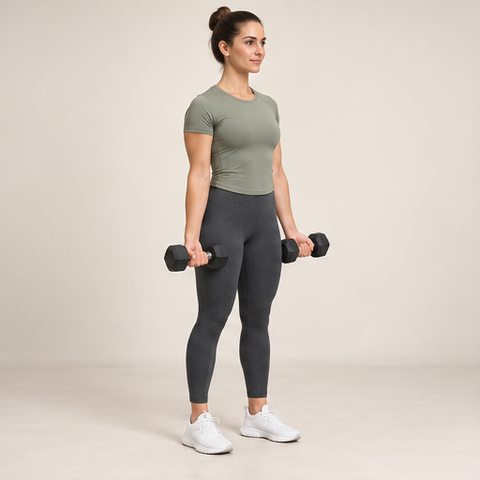
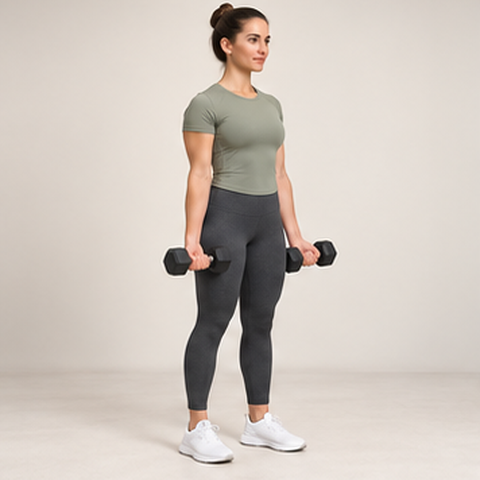
Update workouts, coaching link and exercise media

diff --git a/app.js b/app.js
@@ -1,12 +1,12 @@
 const exercises=[
 ['walk','Разминка','Ходьба или велотренажёр','5–7 минут','Спокойный темп','Начни с комфортного темпа для общего разогрева. На иллюстрации показана ходьба на дорожке.',1],
 ['hyper','Подготовка','Гиперэкстензия под 45°','10–12','60–90 сек','Без веса. Движение в тазобедренных суставах; поднимайся до прямой линии корпуса и ног. Не переразгибай поясницу и не доводи до утомления.',1],
-['legpress','Ноги','Жим ногами','10–15','1,5–2 мин','Таз и спина прижаты к спинке. Опускай платформу до глубины, где таз ещё не начинает подкручиваться. Не бери большой вес только потому, что есть опора.',2],
+['legpress','Ноги','Жим ногами','10–15','1,5–2 мин','Таз и спина прижаты к спинке. Упор в пятки: дави через пятки и середину стопы, сохраняя всю стопу на платформе. Не отрывай носки. Опускай платформу до глубины, где таз ещё не начинает подкручиваться. Не бери большой вес только потому, что есть опора.',2],
 ['bridge','Ягодицы','Ягодичный мост с весом на полу','12–15','60–90 сек','На иллюстрации — штанга с мягкой накладкой на тазу. Освой движение без веса, затем добавь небольшое отягощение. Придерживай гриф руками; поднимай таз за счёт ягодиц, без переразгибания поясницы.',2],
-['curlleg','Задняя поверхность бедра','Сгибание ног сидя','10–15','60–90 сек','Настрой тренажёр под свой рост. Сгибай и разгибай ноги плавно, без рывков, сохраняя таз на сиденье.',2],
-['row','Спина','Горизонтальная тяга с упором грудью','10–15','1,5–2 мин','Грудь остаётся на опоре. Тяни рукояти к корпусу, не поднимай плечи к ушам и не раскачивайся.',2],
-['press','Грудь · трицепс','Жим от груди сидя','10–15','1,5–2 мин','Спина на опоре. Рукояти примерно на уровне середины груди. Жми в комфортной амплитуде без рывков.',2],
-['lateral','Плечи','Подъём гантелей в стороны сидя','12–15','60–90 сек','Лёгкий вес. Поднимай руки в стороны примерно до уровня плеч, без махов и пожимания плечами.',2],
+['split','Ноги · ягодицы','Сплит-приседания с гантелями','8–12 на каждую ногу','60–90 сек','Гантели вдоль корпуса. Одна стопа впереди, другая сзади на носке; обе остаются на полу. Опускайся вертикально, переднее колено направляй по линии стопы. Начни с лёгких гантелей, без потери равновесия. Один подход — обе ноги.',2],
+['row','Спина','Горизонтальная тяга нижнего блока','10–15','1,5–2 мин','Сидя без упора грудью, стопы на платформе, колени слегка согнуты. Держи спину нейтрально и корпус устойчиво. Тяни рукоять к животу, не поднимай плечи и не раскачивайся. Начни с лёгкого веса.',2],
+['pecdeck','Грудь','Бабочка в тренажёре','10–15','60–90 сек','Спина на опоре, плечи опущены. Настрой сиденье: рукояти на уровне груди. Плавно своди руки перед собой; возвращай в комфортную амплитуду, не уводя локти далеко за корпус.',2],
+['lateral','Плечи','Подъём гантелей в стороны сидя','12–15','60–90 сек','Лёгкий вес. Веди движение локтями: они немного выше кистей. Не выворачивай плечи внутрь и не опускай большие пальцы вниз. Поднимай руки примерно до уровня плеч, без махов и пожимания плечами.',2],
 ['biceps','Бицепс','Сгибание рук с гантелями стоя','10–15','60–90 сек','Ладони вперёд, локти около корпуса. Поднимай и опускай гантели плавно, без раскачивания и прогиба в пояснице.',2],
 ['pushdown','Трицепс','Разгибание рук с канатом','10–15','60–90 сек','Верхний блок. Держи локти около корпуса и плечи неподвижными. Разгибай руки вниз, контролируй возвращение.',2],
 ['knees','Пресс','Подъём согнутых коленей в упоре','8–12','60–90 сек','Упор на предплечьях, тренажёр со спинкой. Не проваливайся в плечах. Поднимай колени, слегка подкручивая таз к рёбрам; опускай медленно. Без раскачивания.',2]
@@ -14,7 +14,7 @@ const exercises=[
 let state={day:1,beginner:false,done:{}};try{Object.assign(state,JSON.parse(localStorage.getItem('forma-v1')||'{}'))}catch{}
 let paused=matchMedia('(prefers-reduced-motion: reduce)').matches;
 const $=s=>document.querySelector(s);function save(){try{localStorage.setItem('forma-v1',JSON.stringify(state))}catch{}}
-function items(){return exercises.map(e=>e[0]==='row'&&state.day===2?['pulldown','Спина','Тяга верхнего блока к груди','10–15','1,5–2 мин','Тяни перед собой, не за голову. Не раскачивай корпус и не поднимай плечи к ушам.',2]:e)}
+function items(){return exercises.map(e=>e[0]==='row'&&state.day===2?['pulldown','Спина','Тяга верхнего блока к груди','10–15','1,5–2 мин','Тяни перед собой, не за голову. Не раскачивай корпус и не поднимай плечи к ушам.',2]:e[0]==='pecdeck'&&state.day===2?['dumbbellfly','Грудь','Разведение гантелей лёжа','10–15','60–90 сек','Лёжа на горизонтальной скамье, стопы на полу. Локти слегка согнуты, угол сохраняется. Разводи руки до комфортного растяжения, не опуская локти ниже корпуса; своди гантели над грудью. Начни с очень лёгкого веса.',2]:e[0]==='split'&&state.day===2?['extension','Передняя поверхность бедра','Разгибание ног сидя','10–15','60–90 сек','Спина и таз на опоре. Ось тренажёра на уровне коленей, валик спереди нижней части голеней, выше голеностопа. Плавно выпрямляй ноги без резкого запирания коленей; контролируй опускание.',2]:e)}
 function key(id,i){return `${state.day}-${state.beginner}-${id}-${i}`}
-function render(){let total=0,done=0;$('#cards').innerHTML=items().map((e,i)=>{const[id,tag,title,reps,rest,tip,max]=e;const n=state.beginner?1:max;total+=n;let checks=Array.from({length:n},(_,j)=>{let yes=!!state.done[key(id,j)];done+=yes?1:0;return `<button class="check ${yes?'done':''}" data-id="${id}" data-set="${j}" aria-label="${title}: ${id==='walk'?'разминка':'подход '+(j+1)}" aria-pressed="${yes}">${yes?'✓':j+1}</button>`}).join('');return `<article class="card"><div class="visual"><img src="${id}.${paused?'png':'gif'}?v=ai2" alt="AI-иллюстрация: ${title}" loading="lazy"><span class="ai-label">AI · GIF</span><span class="number">${String(i+1).padStart(2,'0')}</span></div><div class="content"><span class="tag">${tag}</span><h3>${title}</h3><div class="dose">${id==='walk'?reps:n+' × '+reps}</div><div class="rest">${id==='walk'?rest:'Отдых: '+rest}</div><p class="tip">${tip}</p><div class="checks"><span>${id==='walk'?'Разминка':'Подходы'}</span>${checks}</div></div></article>`}).join('');$('#progress').textContent=`Выполнено ${done} из ${total} · ${done===total?'Отличная работа!':'В твоём темпе'}`;$('#bar').style.width=100*done/total+'%';$('#beginner').checked=state.beginner;document.querySelectorAll('[data-day]').forEach(b=>{let on=+b.dataset.day===state.day;b.classList.toggle('active',on);b.setAttribute('aria-pressed',on)});$('#motion').textContent=paused?'Включить GIF':'Приостановить GIF'}
+function render(){let total=0,done=0;$('#cards').innerHTML=items().map((e,i)=>{const[id,tag,title,reps,rest,tip,max]=e;const n=state.beginner?1:max;total+=n;let checks=Array.from({length:n},(_,j)=>{let yes=!!state.done[key(id,j)];done+=yes?1:0;return `<button class="check ${yes?'done':''}" data-id="${id}" data-set="${j}" aria-label="${title}: ${id==='walk'?'разминка':'подход '+(j+1)}" aria-pressed="${yes}">${yes?'✓':j+1}</button>`}).join('');return `<article class="card"><div class="visual"><img src="${id}.${paused?'png':'gif'}?v=ai4" alt="AI-иллюстрация: ${title}" loading="lazy"><span class="ai-label">AI · GIF</span><span class="number">${String(i+1).padStart(2,'0')}</span></div><div class="content"><span class="tag">${tag}</span><h3>${title}</h3><div class="dose">${id==='walk'?reps:n+' × '+reps}</div><div class="rest">${id==='walk'?rest:'Отдых: '+rest}</div><p class="tip">${tip}</p><div class="checks"><span>${id==='walk'?'Разминка':'Подходы'}</span>${checks}</div></div></article>`}).join('');$('#progress').textContent=`Выполнено ${done} из ${total} · ${done===total?'Отличная работа!':'В твоём темпе'}`;$('#bar').style.width=100*done/total+'%';$('#beginner').checked=state.beginner;document.querySelectorAll('[data-day]').forEach(b=>{let on=+b.dataset.day===state.day;b.classList.toggle('active',on);b.setAttribute('aria-pressed',on)});$('#motion').textContent=paused?'Включить GIF':'Приостановить GIF'}
 $('#cards').onclick=e=>{const b=e.target.closest('[data-set]');if(!b)return;const k=key(b.dataset.id,b.dataset.set);state.done[k]=!state.done[k];save();const id=b.dataset.id,j=b.dataset.set;render();document.querySelector(`[data-id="${id}"][data-set="${j}"]`).focus({preventScroll:true})};document.querySelectorAll('[data-day]').forEach(b=>b.onclick=()=>{state.day=+b.dataset.day;save();render()});$('#beginner').onchange=e=>{state.beginner=e.target.checked;save();render()};$('#motion').onclick=()=>{paused=!paused;render()};$('#reset').onclick=()=>{for(const k of Object.keys(state.done))if(k.startsWith(`${state.day}-${state.beginner}-`))delete state.done[k];save();render()};render();

diff --git a/index.html b/index.html
@@ -1,9 +1,10 @@
-<!doctype html><html lang="ru"><head><meta charset="utf-8"><meta name="viewport" content="width=device-width,initial-scale=1"><meta name="description" content="Твоя программа full body: два занятия в неделю, понятная техника и реалистичные AI-иллюстрации упражнений."><title>Твой старт — Full body</title><link rel="stylesheet" href="style.css?v=ai2"></head><body>
-<header><a class="brand" href="#">форма<span> / твой старт</span></a><a href="#program">К программе ↗</a></header>
+<!doctype html><html lang="ru"><head><meta charset="utf-8"><meta name="viewport" content="width=device-width,initial-scale=1"><meta name="description" content="Твоя программа full body: два занятия в неделю, понятная техника и реалистичные AI-иллюстрации упражнений."><title>Твой старт — Full body</title><link rel="stylesheet" href="style.css?v=ai4"></head><body>
+<header><a class="brand" href="#">форма<span> / твой старт</span></a><nav class="header-links"><a href="#program">К программе ↗</a><a class="trainer-link" href="https://t.me/liveisgood8" target="_blank" rel="noopener noreferrer">Связаться с тренером ↗</a></nav></header>
 <main><section class="hero"><div><div class="eyebrow">СИЛЬНЕЕ. СПОКОЙНО. ПОСТЕПЕННО.</div><h1>Твой первый<br>шаг к <em>силе.</em></h1><p class="intro">Понятная программа на всё тело.<br>Осваивай движения, замечай прогресс<br>и тренируйся в своём темпе.</p><a class="primary" href="#program">Начать тренировку <span>↗</span></a></div><div class="hero-art"><div class="orbit"></div><div class="hero-label">FULL<br>BODY<span>01 / ОСНОВА</span></div><div class="hero-note">Меньше спешки.<br>Больше контроля.</div><span class="star">✳</span></div></section>
 <div class="metrics"><div><b>02</b><span>тренировки в неделю</span></div><div><b>60–70</b><span>минут на занятие</span></div><div><b>6–8</b><span>недель для старта</span></div><div><b>3–4</b><span>повторения в запасе</span></div></div>
-<section class="schedule"><div class="eyebrow">ТВОЙ РИТМ</div><p><strong>Пн — зал</strong><span>→</span><strong>Чт — зал</strong><span>→</span><strong>Сб — теннис / баскетбол</strong></p><small>Пример расписания. Между силовыми — хотя бы один полный день отдыха.</small></section>
+<section class="schedule"><div class="eyebrow">ТВОЙ РИТМ</div><p><strong>Пн — зал</strong><span>→</span><strong>Чт — зал</strong></p><small>Пример расписания. Между силовыми — хотя бы один полный день отдыха.</small></section>
+<section class="rules"><div><div class="eyebrow">ПРОГРЕСС БЕЗ СПЕШКИ</div><h2>Сначала техника.<br>Потом вес.</h2></div><div><article><b>01 / Начни легко</b><p>Первую неделю — один рабочий подход. Со второй переходи к двум, если нормально восстанавливаешься. Гиперэкстензия всегда остаётся одним лёгким подходом.</p></article><article><b>02 / Оставляй запас</b><p>Выбирай вес, с которым могла бы сделать ещё 3–4 чистых повторения. Перед первым упражнением на каждую группу мышц сделай 1–2 лёгких разминочных подхода, постепенно повышая вес и не доводя мышцы до утомления. Они не входят в рабочие подходы программы.</p></article><article><b>03 / Добавляй постепенно</b><p>Достигла верхней границы повторений в обоих подходах с запасом на двух занятиях с этим упражнением подряд? Увеличь вес на минимальный шаг и вернись к нижней границе диапазона.</p></article></div></section>
 <section id="program"><div class="section-head"><div><div class="eyebrow">ДВИЖЕНИЕ ЗА ДВИЖЕНИЕМ</div><h2>Твоя программа</h2></div><button id="motion" class="quiet">Приостановить GIF</button></div><div class="toolbar"><div class="tabs" role="group" aria-label="День тренировки"><button class="active" data-day="1" aria-pressed="true">Тренировка 01</button><button data-day="2" aria-pressed="false">Тренировка 02</button></div><label class="switch"><input id="beginner" type="checkbox"> Первая неделя · 1 подход</label></div><div class="session"><span id="progress" aria-live="polite"></span><button id="reset" class="quiet">Сбросить отметки</button></div><div class="progress-track"><div id="bar"></div></div><p class="legend">Нажимай на кружки после выполненных подходов. Отметки сохраняются в этом браузере.</p><div id="cards" class="cards"></div></section>
-<section class="rules"><div><div class="eyebrow">ПРОГРЕСС БЕЗ СПЕШКИ</div><h2>Сначала техника.<br>Потом вес.</h2></div><div><article><b>01 / Начни легко</b><p>Первую неделю — один рабочий подход. Со второй переходи к двум, если нормально восстанавливаешься. Гиперэкстензия всегда остаётся одним лёгким подходом.</p></article><article><b>02 / Оставляй запас</b><p>Выбирай вес, с которым могла бы сделать ещё 3–4 чистых повторения. Перед жимом ногами, тягой и жимом от груди — по одному лёгкому разминочному подходу сверх программы.</p></article><article><b>03 / Добавляй постепенно</b><p>Достигла верхней границы повторений в обоих подходах с запасом на двух занятиях с этим упражнением подряд? Увеличь вес на минимальный шаг и вернись к нижней границе диапазона.</p></article></div></section>
-<aside class="notice"><strong>О движениях и иллюстрациях</strong><p>Все GIF созданы с помощью AI в едином стиле. Это иллюстрации движения, а не видеосъёмка: детали анатомии и тренажёров могут отличаться от реальных. На первых занятиях попроси тренера проверить настройки и выполнение. Программа снижает потребность в тяжёлой осевой нагрузке, но не исключает нагрузку на позвоночник. При боли в спине или суставах прекращай вызывающее её упражнение.</p></aside>
-<footer><span class="brand">форма / твой старт</span><span>Сила начинается с привычки.</span><a href="https://acsm.org/resistance-training-guidelines-update-2026/" target="_blank" rel="noopener">Рекомендации ACSM ↗</a></footer></main><script src="app.js?v=ai2"></script></body></html>
+
+
+<footer><span class="brand">форма / твой старт</span><span>Сила начинается с привычки.</span><a href="https://acsm.org/resistance-training-guidelines-update-2026/" target="_blank" rel="noopener">Рекомендации ACSM ↗</a></footer></main><script src="app.js?v=ai4"></script></body></html>

diff --git a/style.css b/style.css
@@ -1,3 +1,5 @@
 :root{--bg:#f7f6f0;--ink:#283d32;--muted:#70796d;--accent:#d5e878;--line:#dcded4}*{box-sizing:border-box}html{scroll-behavior:smooth;scroll-padding-top:20px}body{margin:0;background:var(--bg);color:var(--ink);font-family:Arial,Helvetica,sans-serif}header,main{max-width:1200px;margin:auto}header{padding:28px 32px;display:flex;justify-content:space-between;align-items:center;border-bottom:1px solid var(--line)}a{color:inherit;text-decoration:none}header>a:last-child{font-size:14px}.brand{font-size:24px;font-weight:800;letter-spacing:-1px}.brand span{font-size:14px;font-weight:400;letter-spacing:0}main{padding:0 32px}.hero{display:grid;grid-template-columns:1.2fr 1fr;gap:50px;padding:65px 0 55px}.eyebrow{font-size:11px;font-weight:700;letter-spacing:2px}.hero h1{font-size:clamp(48px,6.5vw,84px);font-weight:500;line-height:1.03;letter-spacing:-4px;margin:25px 0}.hero em{font-family:Georgia,serif;font-weight:400}.intro{font-size:18px;color:var(--muted);line-height:1.65}.primary{display:inline-flex;background:var(--ink);color:white;padding:19px 24px;border-radius:8px;gap:42px;margin-top:14px}.hero-art{background:var(--accent);border-radius:120px 10px 10px 10px;position:relative;overflow:hidden;min-height:390px;padding:45px}.hero-label{position:relative;font-size:85px;line-height:.95;font-weight:900;letter-spacing:-5px;z-index:1}.hero-label span{display:block;font-size:11px;letter-spacing:2px;margin-top:24px}.orbit{position:absolute;width:350px;height:350px;border:1px solid #718741;border-radius:50%;top:120px;left:140px;box-shadow:0 0 0 23px #d5e878,0 0 0 24px #8c9b50,0 0 0 47px #d5e878,0 0 0 48px #8c9b50}.hero-note{position:absolute;bottom:32px;font-size:14px;line-height:1.5}.star{position:absolute;right:40px;bottom:40px;font-size:85px}.metrics{display:grid;grid-template-columns:repeat(4,1fr);padding:26px 0;border-block:1px solid var(--line)}.metrics div{border-right:1px solid var(--line);padding-left:25px}.metrics div:first-child{padding-left:0}.metrics div:last-child{border:0}.metrics b{display:block;font-size:34px;font-weight:500}.metrics span{font-size:12px;color:var(--muted);display:block;margin-top:8px}.schedule{padding:35px 0 55px}.schedule p{display:flex;gap:25px;flex-wrap:wrap;font-size:15px}.schedule small{color:var(--muted)}h2{font-size:40px;font-weight:500;letter-spacing:-1.4px;margin:12px 0 25px}.section-head,.toolbar,.session{display:flex;align-items:center;justify-content:space-between;gap:20px}.toolbar{padding:18px;background:#eceee4;border-radius:10px}.tabs{display:flex;gap:5px}button{font:inherit;cursor:pointer}.tabs button{background:transparent;border:0;padding:14px 18px;border-radius:6px;font-size:14px;color:var(--ink)}.tabs button.active{background:var(--ink);color:white}.switch{font-size:13px;display:flex;align-items:center;gap:8px}input{accent-color:var(--ink);width:18px;height:18px}.quiet{border:0;background:none;text-decoration:underline;text-underline-offset:4px;color:var(--muted);font-size:12px;padding:10px 0}.session{margin-top:22px;font-size:13px}.progress-track{height:4px;background:var(--line);margin:10px 0}.progress-track div{height:100%;background:#6c833f;transition:width .3s}.legend{color:var(--muted);font-size:12px;margin-bottom:25px}.cards{display:grid;grid-template-columns:repeat(3,1fr);gap:20px}.card{border:1px solid var(--line);border-radius:12px;overflow:hidden;background:#fffef9;display:flex;flex-direction:column}.visual{position:relative;background:#eef0e9;height:225px}.visual img{width:100%;height:100%;object-fit:contain}.number{position:absolute;top:15px;right:16px;font-size:12px;color:var(--muted)}.content{padding:22px;flex:1;display:flex;flex-direction:column}.tag{font-size:10px;letter-spacing:1.2px;color:#788369;text-transform:uppercase}.card h3{font-size:19px;line-height:1.3;font-weight:500;margin:10px 0 16px;min-height:49px}.dose{font-size:22px;letter-spacing:-.5px}.rest{font-size:11px;color:var(--muted);margin:8px 0 16px}.tip{font-size:13px;line-height:1.65;color:#606c5f;margin:0 0 20px}.checks{display:flex;gap:10px;margin-top:auto;padding-top:14px;border-top:1px solid var(--line);align-items:center}.checks span{font-size:11px;color:var(--muted);margin-right:auto}.check{width:33px;height:33px;border:1px solid #bfc7b5;border-radius:50%;background:none;color:var(--ink);font-size:12px}.check.done{background:var(--ink);color:white;border-color:var(--ink)}.rules{display:grid;grid-template-columns:1fr 1.2fr;gap:70px;padding:65px 0}.rules article{padding:0 0 20px}.rules b{font-size:14px}.rules p,.notice p{color:var(--muted);font-size:14px;line-height:1.7}.notice{border:1px solid var(--line);border-radius:10px;padding:25px}.notice strong{font-size:14px}footer{display:flex;gap:25px;justify-content:space-between;align-items:center;padding:40px 0;color:var(--muted);font-size:11px}footer .brand{font-size:18px}button:focus-visible,a:focus-visible{outline:3px solid #b86649;outline-offset:4px}@media(max-width:850px){.cards{grid-template-columns:repeat(2,1fr)}.hero{gap:25px}.hero-art{padding:35px;min-height:350px}.hero-label{font-size:65px}.rules{gap:30px}.toolbar{flex-wrap:wrap}.metrics span{font-size:11px}}@media(max-width:560px){header{padding:22px 20px}.brand{font-size:21px}main{padding:0 20px}.hero{grid-template-columns:1fr;padding:38px 0 30px}.hero h1{font-size:59px;letter-spacing:-3px}.hero-art{min-height:240px;border-top-left-radius:75px}.hero-label{font-size:65px}.hero-note{right:25px;bottom:25px}.star{right:28px;top:20px;font-size:70px}.orbit{top:60px}.metrics{grid-template-columns:1fr 1fr;gap:25px}.metrics div{padding-left:0;border:0}.metrics b{font-size:29px}.schedule{padding-bottom:35px}.schedule p{gap:10px;font-size:12px}.section-head{align-items:start}.section-head h2{font-size:31px}.section-head .quiet{max-width:100px}.toolbar{padding:12px}.tabs button{padding:12px;font-size:12px}.cards{grid-template-columns:1fr}.visual{height:240px}.card h3{min-height:0}.rules{grid-template-columns:1fr;gap:12px;padding:45px 0}.rules h2{font-size:34px}footer{flex-wrap:wrap}.intro{font-size:16px}}@media(prefers-reduced-motion:reduce){html{scroll-behavior:auto}*{transition:none!important}}
 
 .visual{height:auto;aspect-ratio:1;background:#e9e3d9}.ai-label{position:absolute;bottom:10px;left:12px;font-size:10px;letter-spacing:1px;background:#f7f6f0dd;padding:5px 7px;border-radius:4px}
+
+.header-links{display:flex;align-items:center;gap:20px;font-size:13px}.trainer-link{background:var(--ink);color:white;border-radius:7px;padding:12px 16px}@media(max-width:650px){header{gap:16px;flex-wrap:wrap}.header-links{flex-wrap:wrap;gap:14px}.trainer-link{padding:10px 12px}}

diff --git a/README.md b/README.md
@@ -10,4 +10,8 @@ GitHub Pages: Deploy from a branch → main → / (root).
 
 Для редактирования: index.html — структура, style.css — оформление, app.js — программа и интерактивность.
 
-Все 12 GIF созданы с помощью AI в едином стиле. Кадры анимации сгенерированы, это не видеосъёмка. Иллюстрации не заменяют очную проверку техники. Ягодичный мост показан с мягкой накладкой и штангой; начинающим сначала освоить движение без веса.
+Все 14 GIF созданы с помощью AI в едином стиле. Кадры анимации сгенерированы, это не видеосъёмка. Иллюстрации не заменяют очную проверку техники. Ягодичный мост показан с мягкой накладкой и штангой; начинающим сначала освоить движение без веса.
+
+Тренировка 01: бабочка в тренажёре; тренировка 02: разведение гантелей лёжа. Горизонтальная тяга показана на нижнем блоке сидя без упора грудью. Анимации содержат 12 сгенерированных фаз движения вместо 4–6.
+
+В первой тренировке — сплит-приседания с гантелями, во второй — разгибание ног сидя. Кнопка тренера: https://t.me/liveisgood8. Вводные рекомендации размещены перед программой. GIF остаются покадровыми AI-иллюстрациями; полноценная плавность видео пока не достигнута.
